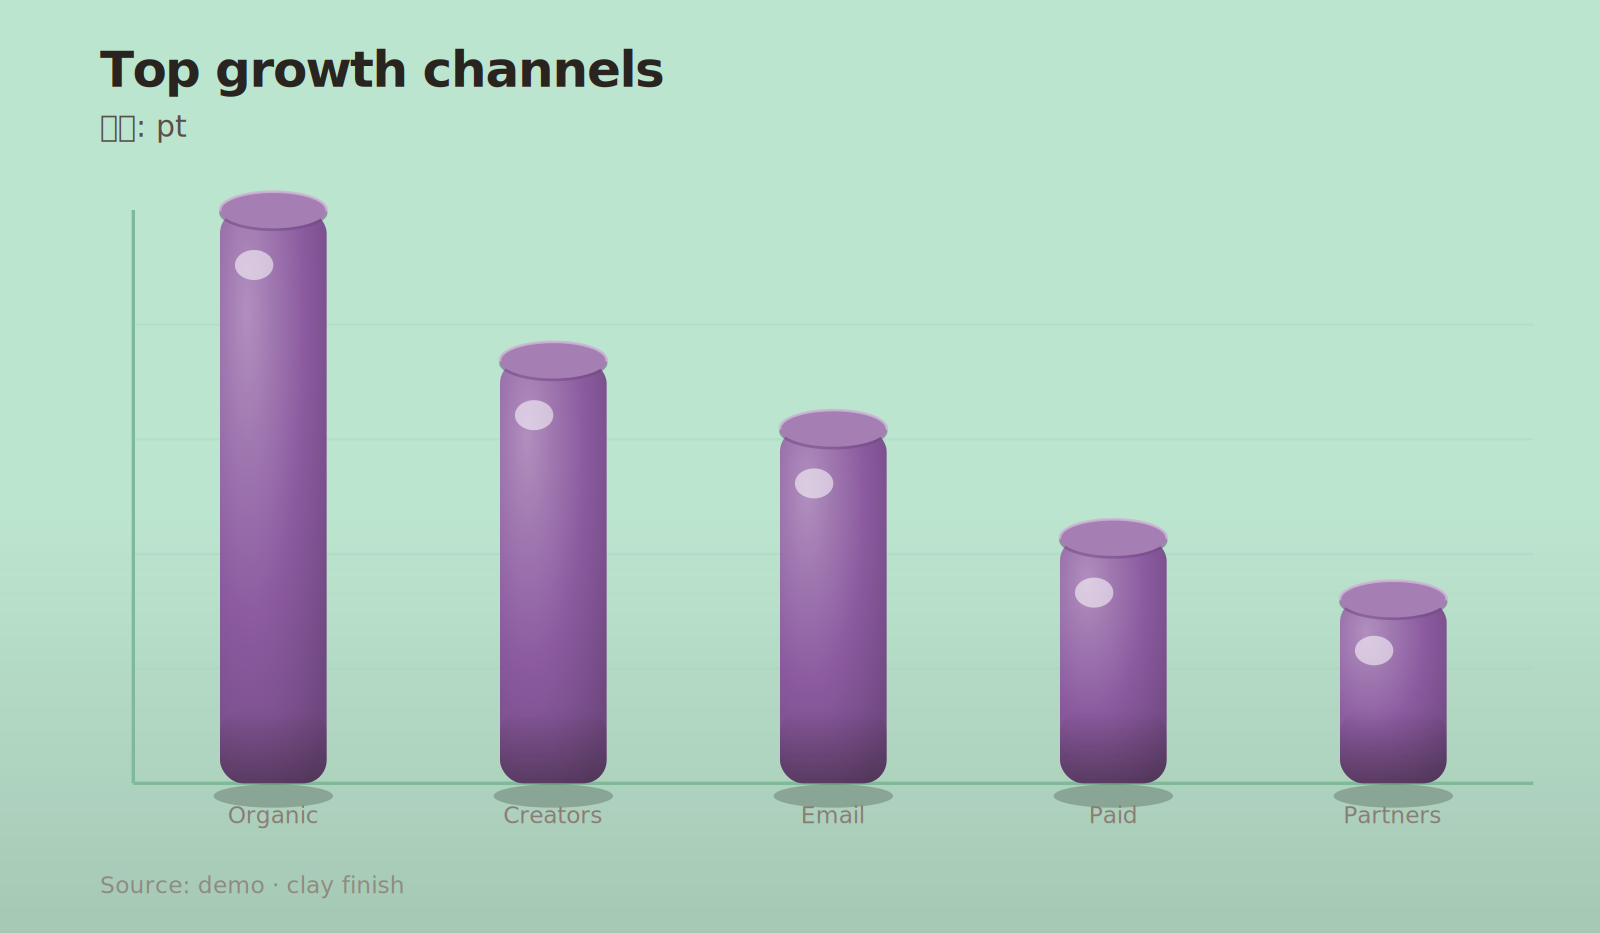
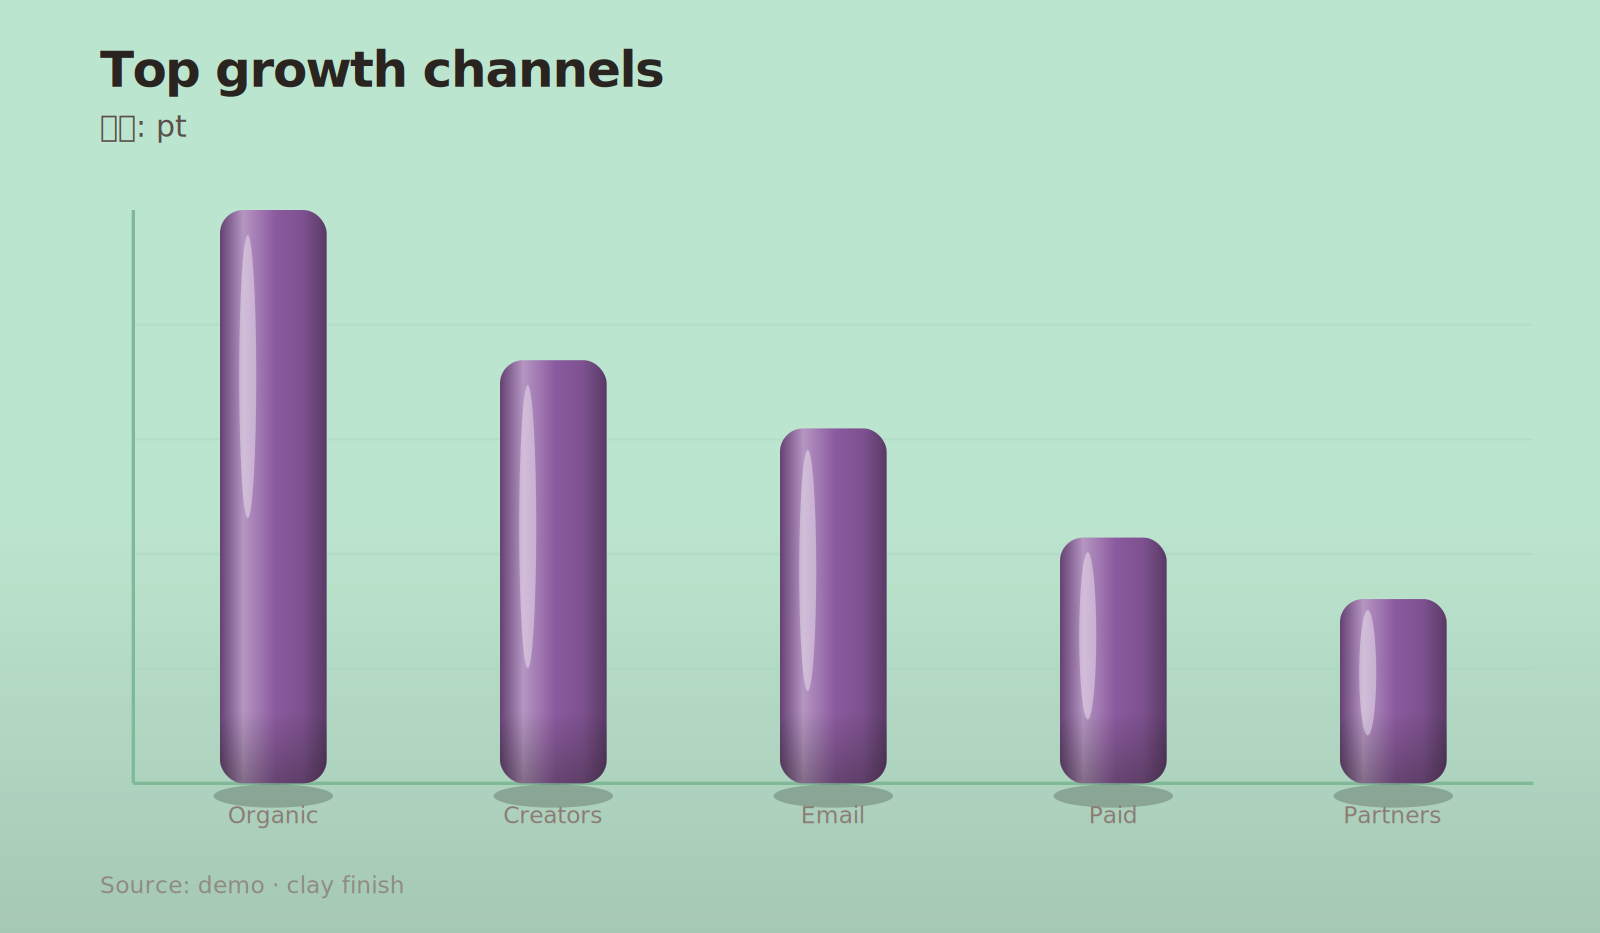
Replace bar top cap with horizontal cylinder gradient
The separate top-cap ellipse on vertical bars created a visible seam
where the rounded corners of the rect met the cap. Removed the cap,
rim highlight, and cap shadow entirely. Bar bodies now fill with a
horizontal linear gradient (dark edge → bright sheen band → base →
darker far side) that reads as a smooth plastic cylinder with no
junction artifacts. Horizontal bars get the analogous vertical
gradient and lose their old sheen overlay.

Specular glint is retained as a soft blurred ellipse, and a faint
contact shadow is added under each horizontal bar for consistency
with the vertical version.

https://claude.ai/code/session_01ABERqQvQCk2K72zuEPEbhP

diff --git a/src/chartagent/renderers/svg_renderer.py b/src/chartagent/renderers/svg_renderer.py
@@ -97,15 +97,16 @@ def _render_bar_horizontal(chart_spec: dict[str, Any], dataset: dict[str, Any]) 
             bar_style = _series_fill_style(chart_spec, pattern_defs, slot=f"bar-horizontal-{index}", base_color=bar_fill)
         parts.append(f'<text x="{left - 16}" y="{y + 24}" class="label" text-anchor="end">{label}</text>')
         if _clay_mode_active(chart_spec):
+            shadow_rx = max(10.0, bar_width * 0.5)
             parts.append(
-                f'<rect x="{left}" y="{y + 6}" width="{bar_width:.2f}" height="24" rx="12"'
-                f' fill="{_clay_fill(chart_spec, bar_style["paint"])}"'
-                f'{_svg_optional_stroke(bar_style["stroke"], bar_style["stroke_width"])}'
-                f'{_clay_filter_attr(chart_spec, soft=True)} />'
+                f'<ellipse cx="{(left + bar_width * 0.5):.2f}" cy="{(y + 34):.2f}"'
+                f' rx="{shadow_rx:.2f}" ry="3.2"'
+                f' fill="#0f0b08" fill-opacity="0.18" filter="url(#cg-clay-blur-tight)" />'
             )
             parts.append(
-                f'<rect x="{left}" y="{y + 6}" width="{bar_width:.2f}" height="9" rx="12"'
-                f' fill="url(#cg-clay-sheen)" pointer-events="none" />'
+                f'<rect x="{left}" y="{y + 6}" width="{bar_width:.2f}" height="24" rx="12"'
+                f' fill="{_clay_pipe_fill(chart_spec, bar_style["paint"])}"'
+                f'{_svg_optional_stroke(bar_style["stroke"], bar_style["stroke_width"])} />'
             )
         else:
             parts.append(
@@ -1001,9 +1002,7 @@ def _render_bar_core(chart_spec: dict[str, Any], dataset: dict[str, Any], annota
             )
         elif _clay_mode_active(chart_spec):
             base_color = str(bar_style["paint"])
-            has_hex = bool(_HEX_COLOR_RE.match(base_color))
             clay_radius = float(_motif_token(chart_spec, "bar_radius", max(12.0, bar_width * 0.45)))
-            cap_ry = max(4.0, min(bar_width * 0.34, 11.0))
 
             shadow_rx = bar_width * 0.56
             shadow_ry = max(2.8, bar_width * 0.11)
@@ -1015,42 +1014,26 @@ def _render_bar_core(chart_spec: dict[str, Any], dataset: dict[str, Any], annota
 
             parts.append(
                 f'<rect x="{x:.2f}" y="{y:.2f}" width="{bar_width:.2f}" height="{bar_h:.2f}"'
-                f' fill="{_clay_fill(chart_spec, base_color)}"'
+                f' fill="{_clay_cylinder_fill(chart_spec, base_color)}"'
                 f'{_svg_optional_stroke(bar_style["stroke"], bar_style["stroke_width"])}'
                 f' rx="{clay_radius}" />'
             )
 
-            ao_height = max(8.0, min(bar_h * 0.45, 44.0))
-            if bar_h > 12:
+            ao_height = max(8.0, min(bar_h * 0.42, 44.0))
+            if bar_h > 16:
                 parts.append(
                     f'<rect x="{x:.2f}" y="{(y + bar_h - ao_height):.2f}" width="{bar_width:.2f}"'
                     f' height="{ao_height:.2f}" fill="url(#cg-clay-ao)" rx="{clay_radius}" pointer-events="none" />'
                 )
 
-            cap_color = _hex_lighten(base_color, 0.22) if has_hex else base_color
-            cap_shadow = _hex_darken(base_color, 0.18) if has_hex else base_color
-            parts.append(
-                f'<ellipse cx="{x_center:.2f}" cy="{(y + cap_ry * 0.15):.2f}" rx="{(bar_width / 2 + 0.5):.2f}"'
-                f' ry="{cap_ry:.2f}" fill="{cap_shadow}" opacity="0.55" />'
-            )
-            parts.append(
-                f'<ellipse cx="{x_center:.2f}" cy="{y:.2f}" rx="{(bar_width / 2):.2f}"'
-                f' ry="{cap_ry:.2f}" fill="{cap_color}" />'
-            )
-            rim_color = _hex_lighten(base_color, 0.55) if has_hex else "#ffffff"
-            parts.append(
-                f'<path d="M {x:.2f} {y:.2f} A {(bar_width / 2):.2f} {cap_ry:.2f} 0 0 1 {(x + bar_width):.2f} {y:.2f}"'
-                f' fill="none" stroke="{rim_color}" stroke-width="1.6" stroke-opacity="0.85" stroke-linecap="round" />'
-            )
-
-            glint_rx = bar_width * 0.18
-            glint_ry = max(4.0, min(bar_h * 0.08, 9.0))
-            glint_cx = x + bar_width * 0.32
-            glint_cy = y + cap_ry + min(bar_h * 0.18, 22.0)
-            if bar_h > cap_ry * 2 + 6:
+            glint_rx = max(3.0, bar_width * 0.08)
+            glint_ry = min(bar_h * 0.34, 85.0)
+            glint_cx = x + bar_width * 0.26
+            glint_cy = y + min(bar_h * 0.40, 100.0)
+            if bar_h > 24:
                 parts.append(
                     f'<ellipse cx="{glint_cx:.2f}" cy="{glint_cy:.2f}" rx="{glint_rx:.2f}" ry="{glint_ry:.2f}"'
-                    f' fill="#ffffff" fill-opacity="0.55" filter="url(#cg-clay-blur-tight)" pointer-events="none" />'
+                    f' fill="#ffffff" fill-opacity="0.38" filter="url(#cg-clay-blur)" pointer-events="none" />'
                 )
         else:
             parts.append(
@@ -1792,6 +1775,14 @@ def _clay_grad_id(color: str) -> str:
     return "cg-clay-grad-" + color.lstrip("#").lower()
 
 
+def _clay_cyl_id(color: str) -> str:
+    return "cg-clay-cyl-" + color.lstrip("#").lower()
+
+
+def _clay_pipe_id(color: str) -> str:
+    return "cg-clay-pipe-" + color.lstrip("#").lower()
+
+
 def _clay_defs_block(chart_spec: dict[str, Any]) -> str:
     if not _clay_mode_active(chart_spec):
         return ""
@@ -1828,6 +1819,30 @@ def _clay_defs_block(chart_spec: dict[str, Any]) -> str:
             f'<stop offset="55%" stop-color="{color}" />'
             f'<stop offset="100%" stop-color="{dark}" />'
             f'</radialGradient>'
+        )
+        cyl_id = _clay_cyl_id(color)
+        edge_shadow = _hex_darken(color, 0.28)
+        sheen = _hex_lighten(color, 0.36)
+        shade = _hex_darken(color, 0.10)
+        far_shadow = _hex_darken(color, 0.36)
+        gradients.append(
+            f'<linearGradient id="{cyl_id}" x1="0%" y1="0%" x2="100%" y2="0%">'
+            f'<stop offset="0%" stop-color="{edge_shadow}" />'
+            f'<stop offset="22%" stop-color="{sheen}" />'
+            f'<stop offset="52%" stop-color="{color}" />'
+            f'<stop offset="78%" stop-color="{shade}" />'
+            f'<stop offset="100%" stop-color="{far_shadow}" />'
+            f'</linearGradient>'
+        )
+        pipe_id = _clay_pipe_id(color)
+        gradients.append(
+            f'<linearGradient id="{pipe_id}" x1="0%" y1="0%" x2="0%" y2="100%">'
+            f'<stop offset="0%" stop-color="{edge_shadow}" />'
+            f'<stop offset="22%" stop-color="{sheen}" />'
+            f'<stop offset="52%" stop-color="{color}" />'
+            f'<stop offset="78%" stop-color="{shade}" />'
+            f'<stop offset="100%" stop-color="{far_shadow}" />'
+            f'</linearGradient>'
         )
 
     drop_shadow = (
@@ -1894,6 +1909,24 @@ def _clay_fill(chart_spec: dict[str, Any], color: Any) -> str:
     text = str(color or "")
     if _HEX_COLOR_RE.match(text):
         return f"url(#{_clay_grad_id(text)})"
+    return text
+
+
+def _clay_cylinder_fill(chart_spec: dict[str, Any], color: Any) -> str:
+    if not _clay_mode_active(chart_spec):
+        return str(color)
+    text = str(color or "")
+    if _HEX_COLOR_RE.match(text):
+        return f"url(#{_clay_cyl_id(text)})"
+    return text
+
+
+def _clay_pipe_fill(chart_spec: dict[str, Any], color: Any) -> str:
+    if not _clay_mode_active(chart_spec):
+        return str(color)
+    text = str(color or "")
+    if _HEX_COLOR_RE.match(text):
+        return f"url(#{_clay_pipe_id(text)})"
     return text
 
 
